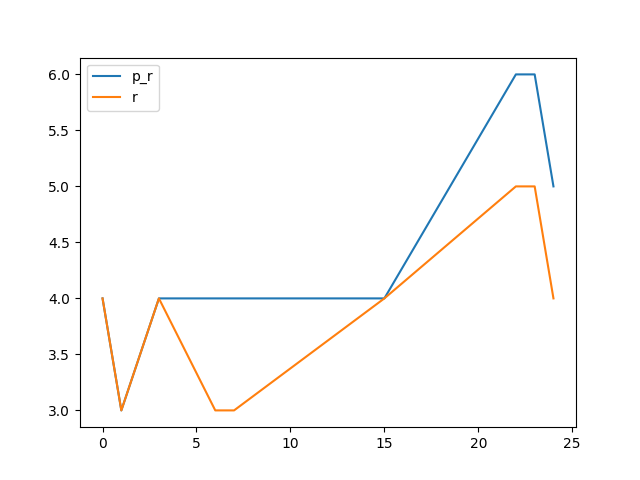
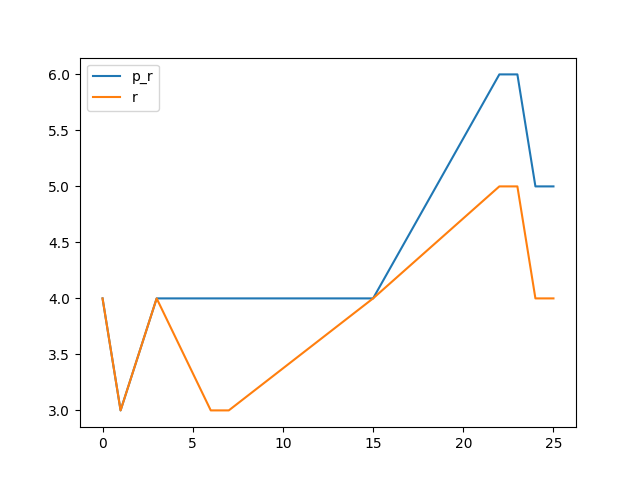
0x0019

diff --git a/benchmark.md b/benchmark.md
@@ -20,16 +20,18 @@
 
 [INFO] Synthesising NPN Class=8 TruthTable:0x0018 pexact:336 r=5 exact:352 r=4 time=120.54min 
 
+[INFO] Synthesising NPN Class=9 TruthTable:0x0019 pexact:310 r=5 exact:344 r=4 time=122.7min 
+
 ```mermaid
 xychart-beta
     title "Comparison powertwoexact twoexact"
-    x-axis [0, 1, 3, 6, 7, 15, 22, 23, 24]
+    x-axis [0, 1, 3, 6, 7, 15, 22, 23, 24, 25]
     y-axis "Switching Activity" 0-->464
-    line [96, 152, 182, 208, 182, 182, 406, 400, 336]
-    line [192, 152, 312, 224, 192, 352, 464, 448, 352]
-    line [238.22222222222223, 238.22222222222223, 238.22222222222223, 238.22222222222223, 238.22222222222223, 238.22222222222223, 238.22222222222223, 238.22222222222223, 238.22222222222223]
-    line [298.6666666666667, 298.6666666666667, 298.6666666666667, 298.6666666666667, 298.6666666666667, 298.6666666666667, 298.6666666666667, 298.6666666666667, 298.6666666666667]
-    bar [80, 60, 80, 80, 80, 80, 120, 120, 100]
-    bar [80, 60, 80, 60, 60, 80, 100, 100, 80]
+    line [96, 152, 182, 208, 182, 182, 406, 400, 336, 310]
+    line [192, 152, 312, 224, 192, 352, 464, 448, 352, 344]
+    line [245.4, 245.4, 245.4, 245.4, 245.4, 245.4, 245.4, 245.4, 245.4, 245.4]
+    line [303.2, 303.2, 303.2, 303.2, 303.2, 303.2, 303.2, 303.2, 303.2, 303.2]
+    bar [80, 60, 80, 80, 80, 80, 120, 120, 100, 100]
+    bar [80, 60, 80, 60, 60, 80, 100, 100, 80, 80]
 ```
 
